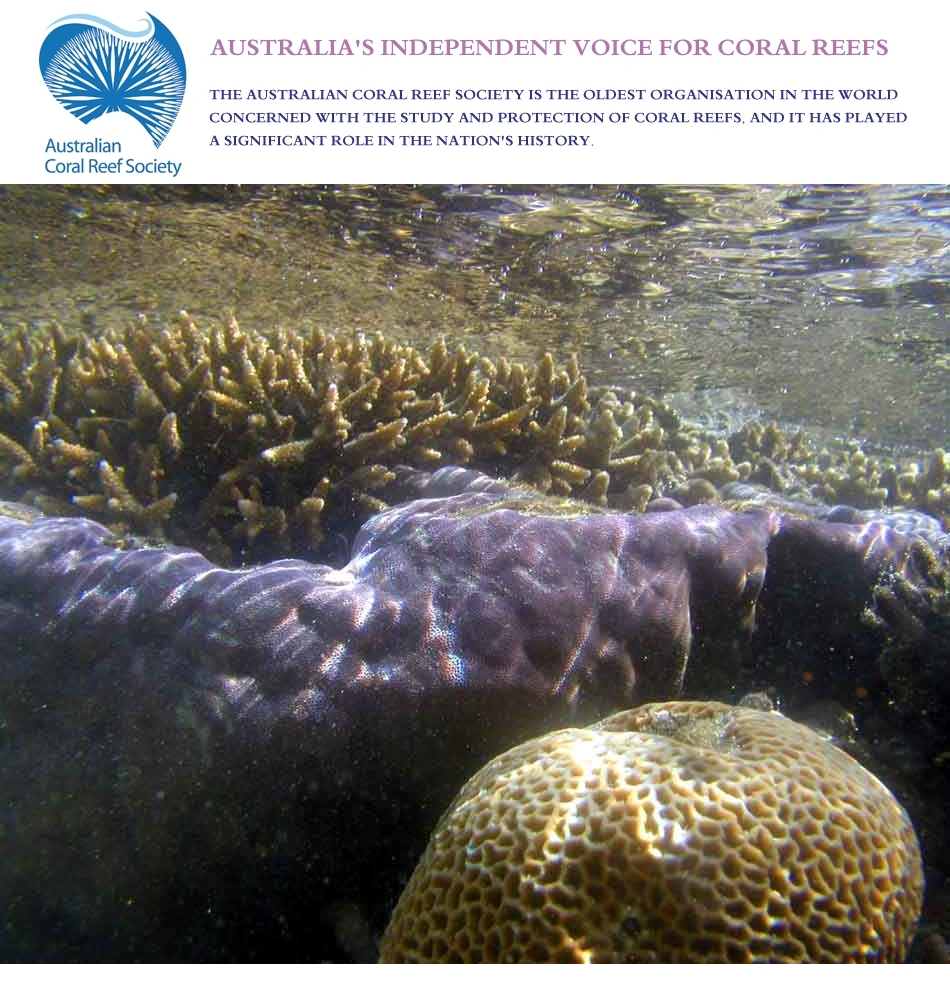
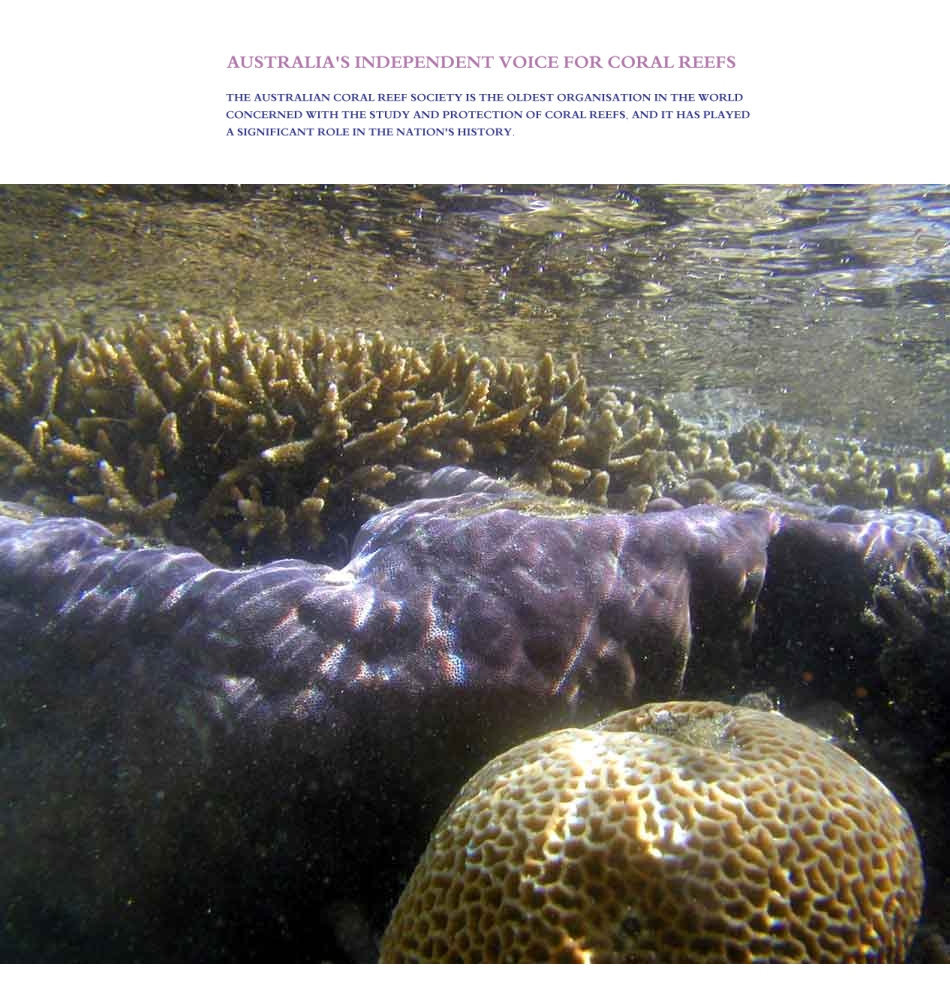
change to include home page header text image

Changed region(s): [[0.0305, 0.0, 0.9463, 0.186]]

diff --git a/homepage_theme/_diffs/css/custom.css b/homepage_theme/_diffs/css/custom.css
@@ -46,11 +46,10 @@ padding-right:0px;
 
 	
 #column-2 {
-	background-image:url("../images/home_background2.jpg");
+	background-image:url("../images/home_background.jpg");
 	background-repeat:no-repeat;
 	width:74%;
 	height:1000px;
-
 
 	}
 
